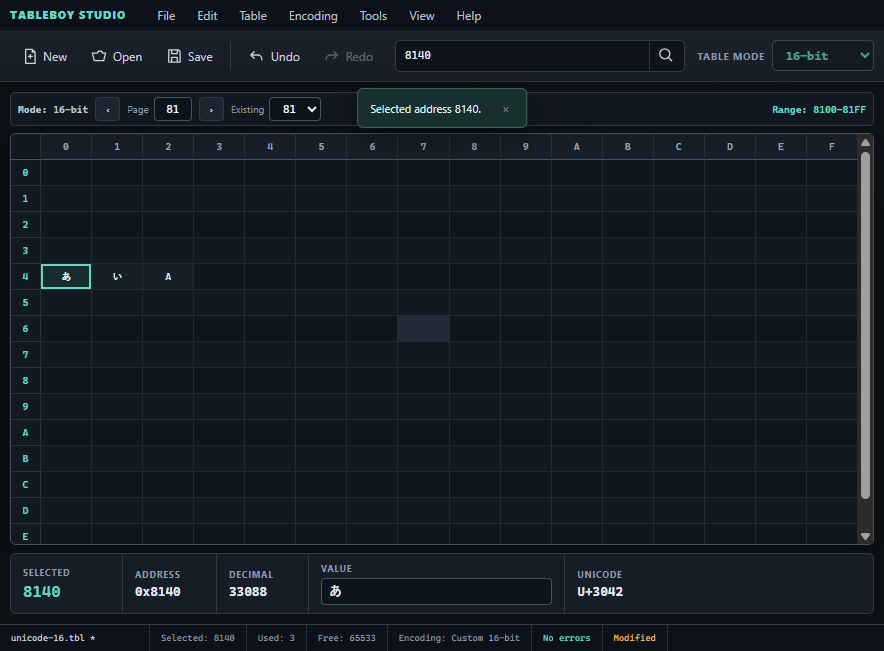
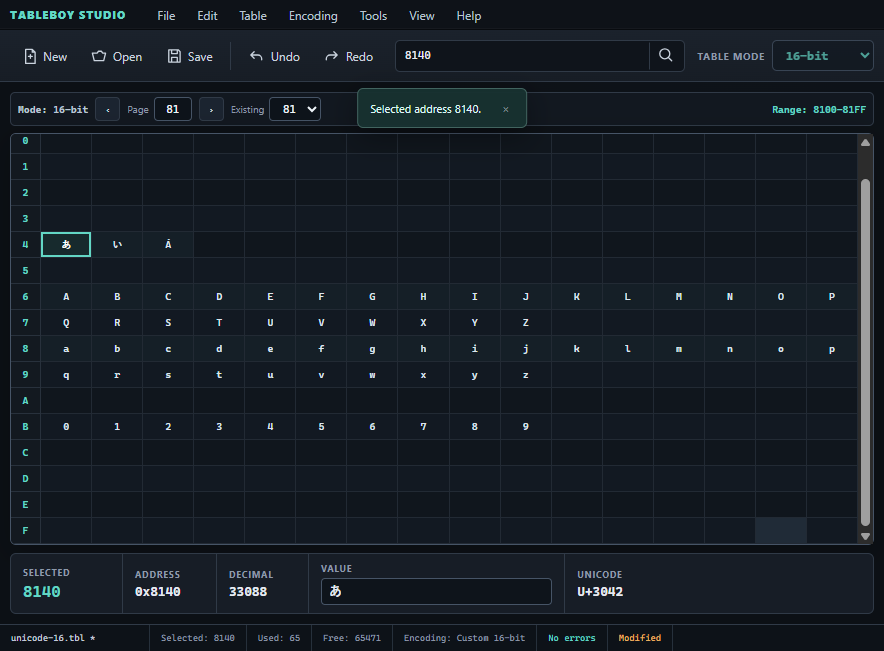
feat: restore automatic alphabet and number filling

diff --git a/src/renderer/src/components/ContextMenu/HexContextMenu.tsx b/src/renderer/src/components/ContextMenu/HexContextMenu.tsx
@@ -16,6 +16,7 @@ interface HexContextMenuProps {
   onEditValue: () => void
   onClear: () => void
   onSelectCharacter: (option: CharacterOption) => void
+  onApplySequence: (category: CharacterCategory) => void
 }
 
 export function HexContextMenu({
@@ -27,6 +28,7 @@ export function HexContextMenu({
   onClose,
   onEditValue,
   onClear,
+  onApplySequence,
   onSelectCharacter
 }: HexContextMenuProps): React.JSX.Element {
   const [activeCategoryId, setActiveCategoryId] = useState<string | null>(null)
@@ -53,6 +55,11 @@ export function HexContextMenu({
   const opensToLeft = x > window.innerWidth - 570
 
   const activateCategory = (category: CharacterCategory): void => {
+    if (category.behavior === 'sequential') {
+      setActiveCategoryId(null)
+      setPreviewOption(null)
+      return
+    }
     setActiveCategoryId(category.id)
     setPreviewOption(category.characters[0] ?? null)
   }
@@ -95,14 +102,25 @@ export function HexContextMenu({
             <button
               type="button"
               role="menuitem"
-              aria-haspopup="dialog"
-              aria-expanded={activeCategoryId === category.id}
-              onClick={() => activateCategory(category)}
+              aria-haspopup={category.behavior === 'sequential' ? undefined : 'dialog'}
+              aria-expanded={
+                category.behavior === 'sequential' ? undefined : activeCategoryId === category.id
+              }
+              title={
+                category.behavior === 'sequential'
+                  ? `Fill ${category.characters.length} cells from ${formatTableAddress(selectedAddress, mode)}`
+                  : undefined
+              }
+              onClick={() =>
+                category.behavior === 'sequential'
+                  ? onApplySequence(category)
+                  : activateCategory(category)
+              }
               onFocus={() => activateCategory(category)}
               onPointerEnter={() => activateCategory(category)}
             >
               <span>{category.label}</span>
-              <span aria-hidden="true">›</span>
+              <span aria-hidden="true">{category.behavior === 'sequential' ? '↦' : '›'}</span>
             </button>
           </Fragment>
         ))}

diff --git a/src/renderer/src/App.tsx b/src/renderer/src/App.tsx
@@ -18,7 +18,8 @@ import {
   type TableMode
 } from '../../core/table/index.ts'
 import { characterCatalog } from '../../core/characters/CharacterCatalog.ts'
-import type { CharacterOption } from '../../core/characters/CharacterCategory.ts'
+import type { CharacterCategory, CharacterOption } from '../../core/characters/CharacterCategory.ts'
+import { applyCharacterSequence } from '../../core/characters/applyCharacterSequence.ts'
 import type { OpenedTableFile } from '../../shared/tableFileApi.ts'
 import { AppDialog, type AppDialogKind } from './components/AppDialog/AppDialog.tsx'
 import { CharacterInspector } from './components/CharacterInspector/CharacterInspector.tsx'
@@ -473,6 +474,35 @@ export default function App(): React.JSX.Element {
     [contextMenu]
   )
 
+  const handleCharacterSequence = useCallback(
+    (category: CharacterCategory): void => {
+      if (!contextMenu) return
+      const result = applyCharacterSequence(
+        state.entries,
+        contextMenu.address,
+        category.characters,
+        state.mode
+      )
+      setContextMenu(null)
+      if (!result.ok) {
+        setNotice({
+          message: `${category.label} requires ${result.requiredCells} cells, but only ${result.availableCells} remain. Nothing was changed.`,
+          persistent: false
+        })
+        return
+      }
+      if (
+        result.overwrittenAddresses.length > 0 &&
+        !window.confirm(
+          `Fill ${category.label} from ${formatTableAddress(result.startAddress, state.mode)} to ${formatTableAddress(result.endAddress, state.mode)}? This will replace ${result.overwrittenAddresses.length} existing entries.`
+        )
+      )
+        return
+      dispatch({ type: 'APPLY_ENTRIES', entries: result.entries })
+    },
+    [contextMenu, state.entries, state.mode]
+  )
+
   return (
     <div
       className="app-shell"
@@ -595,6 +625,7 @@ export default function App(): React.JSX.Element {
             setContextMenu(null)
           }}
           onSelectCharacter={handleCharacterSelect}
+          onApplySequence={handleCharacterSequence}
         />
       ) : null}
 

diff --git a/src/core/characters/applyCharacterSequence.ts b/src/core/characters/applyCharacterSequence.ts
@@ -1,0 +1,44 @@
+import { assertTableAddress } from '../table/TableAddress.ts'
+import { createTableEntryMap, setTableValue } from '../table/TableDocument.ts'
+import type { TableEntry } from '../table/TableEntry.ts'
+import { maxAddressForMode, type TableMode } from '../table/TableMode.ts'
+import type { CharacterOption } from './CharacterCategory.ts'
+
+export type ApplyCharacterSequenceResult =
+  | {
+      ok: true
+      entries: TableEntry[]
+      startAddress: number
+      endAddress: number
+      overwrittenAddresses: number[]
+    }
+  | { ok: false; availableCells: number; requiredCells: number }
+
+export function applyCharacterSequence(
+  table: readonly TableEntry[],
+  startAddress: number,
+  characters: readonly CharacterOption[],
+  mode: TableMode = '8-bit'
+): ApplyCharacterSequenceResult {
+  assertTableAddress(startAddress, mode)
+  const availableCells = maxAddressForMode(mode) - startAddress + 1
+  if (characters.length > availableCells) {
+    return { ok: false, availableCells, requiredCells: characters.length }
+  }
+
+  const entryMap = createTableEntryMap(table, mode)
+  const overwrittenAddresses: number[] = []
+  let entries = [...table]
+  characters.forEach((character, index) => {
+    const address = startAddress + index
+    if (entryMap.has(address)) overwrittenAddresses.push(address)
+    entries = setTableValue(entries, address, character.value, mode)
+  })
+  return {
+    ok: true,
+    entries,
+    startAddress,
+    endAddress: startAddress + Math.max(0, characters.length - 1),
+    overwrittenAddresses
+  }
+}

diff --git a/src/core/characters/CharacterCatalog.ts b/src/core/characters/CharacterCatalog.ts
@@ -23,6 +23,7 @@ function characterOption(value: string): CharacterOption {
 
 export const uppercaseCategory: CharacterCategory = {
   id: 'uppercase',
+  behavior: 'sequential',
   label: 'Maiúsculas (A-Z)',
   group: 'Latin',
   characters: characterRange(0x41, 26),
@@ -33,6 +34,7 @@ export const uppercaseCategory: CharacterCategory = {
 
 export const lowercaseCategory: CharacterCategory = {
   id: 'lowercase',
+  behavior: 'sequential',
   label: 'Minúsculas (a-z)',
   group: 'Latin',
   characters: characterRange(0x61, 26),
@@ -43,6 +45,7 @@ export const lowercaseCategory: CharacterCategory = {
 
 export const numbersCategory: CharacterCategory = {
   id: 'numbers',
+  behavior: 'sequential',
   label: 'Números (0-9)',
   group: 'Latin',
   characters: characterRange(0x30, 10),

diff --git a/src/core/characters/CharacterCategory.ts b/src/core/characters/CharacterCategory.ts
@@ -10,6 +10,7 @@ export interface CharacterCategory {
   group: 'Latin' | 'Symbols' | 'Japanese'
   characters: readonly CharacterOption[]
   presentation?: 'compact' | 'grid'
+  behavior?: 'picker' | 'sequential'
   ordered: boolean
   discoverable: boolean
 }

diff --git a/docs/PRODUCTION_VALIDATION.md b/docs/PRODUCTION_VALIDATION.md
@@ -20,17 +20,17 @@ Validado em 24/10/2026 no Windows x64, Node.js 24.18.0, npm 12.1.0 e Electron
 | ----------------------------- | ------------------------------------------------- |
 | `npm run typecheck`           | Aprovado                                          |
 | `npm run lint`                | Aprovado, inclusive o script de validação desktop |
-| `npm test`                    | 37 testes aprovados, zero falhas                  |
+| `npm test`                    | 42 testes aprovados, zero falhas                  |
 | `npm run build`               | Aprovado                                          |
 | `npm run build:win`           | Aprovado; instalador NSIS x64 gerado              |
 | `git diff --check`            | Sem erros                                         |
-| Aplicativo Windows empacotado | 9 cenários aprovados, zero exceções no renderer   |
+| Aplicativo Windows empacotado | 12 cenários aprovados, zero exceções no renderer  |
 
 ## Fluxo desktop verificado
 
 O script [verify-desktop.mjs](../scripts/verify-desktop.mjs) executou o
 `win-unpacked/TableBoyStudio.exe` desta entrega. As escolhas dos diálogos nativos
-foram automatizadas; interface, sandbox, preload, IPC e leitura/gravação no sistema
+e das confirmações do renderer foram automatizadas; interface, sandbox, preload, IPC e leitura/gravação no sistema
 de arquivos foram reais. Fixtures e perfil de teste foram criados em pasta
 temporária separada dos documentos do usuário.
 
@@ -45,6 +45,10 @@ temporária separada dos documentos do usuário.
 7. Ctrl+F seleciona o endereço `8140`; F1 abre a ajuda de atalhos.
 8. Cancel ao fechar mantém a janela e o documento modificado.
 9. Nenhuma exceção no renderer durante a execução.
+10. Preenchimento automático de A–Z, a–z e 0–9 em 8 bits, com uma única ação Undo.
+11. Sequências automáticas em 16 bits com endereços completos e Undo/Redo.
+12. Cancelar a substituição mantém os valores; confirmar altera somente o intervalo
+    da sequência. Overflow em `FFFF` não altera nenhuma célula.
 
 Evidências: [resultado estruturado](validation/desktop-check.json) e
 [captura do editor](validation/table-editor-1.5.0.png).
@@ -63,7 +67,7 @@ nenhuma dependência adicional foi incluída no aplicativo ou no lockfile.
 - Instalador: `dist/table-editor-1.5.0/TableBoy Studio-Setup-1.5.0.exe`.
 - Executável: `dist/table-editor-1.5.0/win-unpacked/TableBoyStudio.exe`.
 - SHA-256 do instalador:
[2 lines of base64/hex data omitted]
 - SHA-256 do arquivo de backup:
[1 lines of base64/hex data omitted]
 

diff --git a/README.md b/README.md
@@ -15,7 +15,9 @@ de tabelas. O código do ROM Tools foi preservado em um arquivo separado.
 - Detecção do modo ao abrir e navegação por páginas em tabelas de 16 bits.
 - Caracteres Unicode, strings e tokens, editáveis na matriz ou no inspector.
 - Catálogo de caracteres latinos, PT-BR, símbolos e conjuntos japoneses.
-- Cada escolha no catálogo altera somente a célula selecionada.
+- Maiúsculas (A–Z), minúsculas (a–z) e números (0–9) preenchem automaticamente
+  a sequência inteira a partir da célula selecionada, em uma única ação Undo/Redo.
+- As demais categorias permitem escolher um caractere para a célula selecionada.
 - Busca por endereço hexadecimal ou valor da tabela, validação e estatísticas.
 - Undo/Redo, arrastar um arquivo `.tbl` para abrir e proteção de alterações ao
   criar, abrir ou fechar documentos.
@@ -23,6 +25,11 @@ de tabelas. O código do ROM Tools foi preservado em um arquivo separado.
 O aplicativo começa com uma tabela vazia. Para criar uma tabela de 16 bits,
 selecione **Table Mode → 16-bit** enquanto a tabela estiver vazia. Digite uma
 página hexadecimal ou navegue pelas páginas presentes no documento.
+
+Para inserir um alfabeto ou os números, clique com o botão direito na célula
+inicial e escolha **Maiúsculas (A-Z)**, **Minúsculas (a-z)** ou **Números (0-9)**.
+Entradas existentes exigem confirmação antes da substituição. Se a sequência não
+couber até `FF` ou `FFFF`, nenhuma célula será alterada.
 
 Arquivos misturando chaves de 8 e 16 bits, chaves maiores que dois bytes e
 entradas inválidas são recusados com uma mensagem. O editor não converte

diff --git a/CHANGELOG.md b/CHANGELOG.md
@@ -6,6 +6,8 @@
 - Mantidos os modos 8/16 bits, catálogo, inspector, busca de entradas, Undo/Redo,
   drag and drop e proteção de alterações não salvas.
 - Inicialização com documento vazio em vez de uma tabela de demonstração.
+- Restaurado o preenchimento automático de A–Z, a–z e 0–9 a partir da célula
+  selecionada, com confirmação de substituições, limite de endereço e Undo/Redo.
 - Removidos do projeto ativo ROM Tools, Text Search, Text Browser, assistente de
   mappings, motores de busca, workers, IPC binário e respectivos testes/benchmarks.
 - Todo o projeto anterior foi arquivado em
